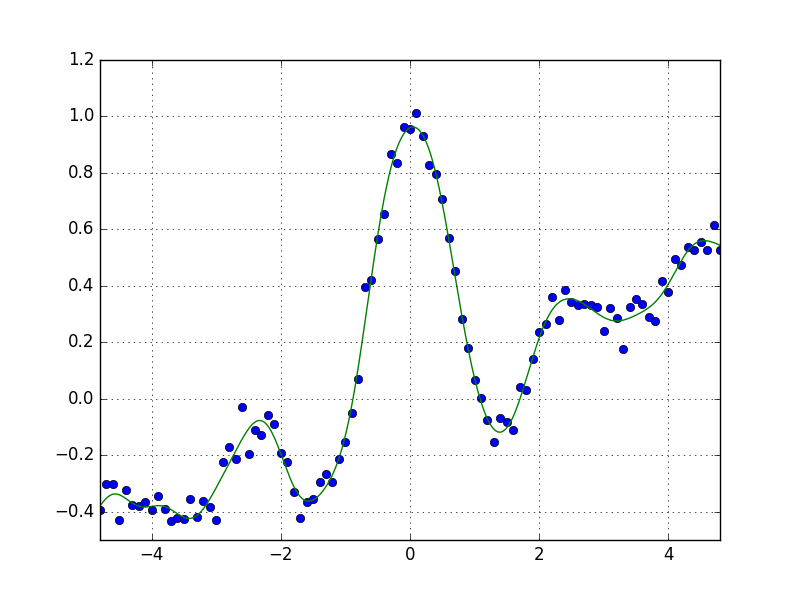
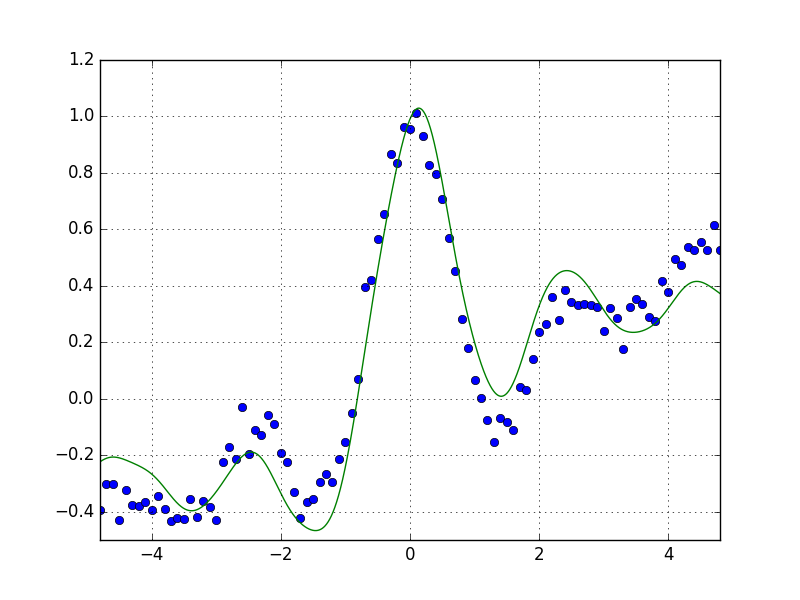
make sparse

diff --git a/03/main.py b/03/main.py
@@ -37,7 +37,7 @@ t = np.zeros(32)
 z = np.zeros(32)
 u = np.zeros(32)
 g = 0.01
-for i in range(10):
+for i in range(100):
     t0 = t
     z0 = z
     u0 = u
@@ -46,12 +46,18 @@ for i in range(10):
         z[j] = np.max([0, t[j] + u0[j] - g]) + np.min([0, t[j] + u0[j] + g])
     u = u0 + t - z
 
-F = P.dot(t) 
+for i in range(len(t)):
+    if np.abs(t[i]) < 0.001:
+        t[i] = 0
+
+F = P.dot(t)
+
+print(t)
 
 plt.grid()
 plt.xlim(-4.8, 4.8)
 plt.ylim(-0.5, 1.2)
 plt.plot(x, y, 'o')
 plt.plot(X, F, '-')
+# plt.savefig('plot.png')
 plt.show()
-
